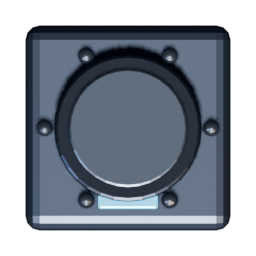
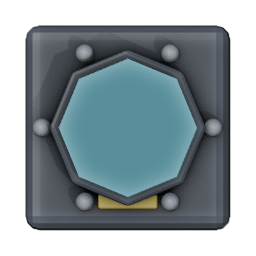
Prototype v0.3.1: reworked sprites (Workbench) + combat feel
- Sprites re-rendered in Workbench: flat colors + cavity outlines,
  distinct color identity per part (olive/graphite/slate hulls,
  orange nozzles, yellow ammo drums, red hostile accents)
- Combat rework: only flagship selected at start; attackers orbit
  targets at gun range instead of ramming; arrival braking so
  ships stop at orders instead of drifting forever
- Salvage loop: destroyed blocks drop collectible debris that
  permanently raises the next build budget
- Reinforcement wing spawns when the station shield falls
- Tighter spawn distances, HUD salvage counter, event messages

Generated with [Devin](https://devin.ai)

diff --git a/void-salvage/prototype/game.js b/void-salvage/prototype/game.js
@@ -52,6 +52,8 @@ let allies = [], foes, station, bullets, particles, stars, planet;
 const selection = new Set(); // ally ships under command
 let rosterSel = new Set();   // chosen escort indices
 let paused = false, autopilot = false, won = false, dead = false, time = 0;
+let salvage = 0, debris = [], msg = null, reinforced = false;
+const budget = () => BUDGET + salvage;
 const autoBtn  = { x: 0, y: 0, w: 150, h: 38 };
 const pauseBtn = { x: 0, y: 0, w: 120, h: 38 };
 const allBtn   = { x: 0, y: 0, w: 140, h: 38 };
@@ -132,7 +134,7 @@ function editorClick(mx, my) {
     return;
   }
   if (!hasNeighbor(r, c)) return;
-  if (gridCost() + TYPES[selected].cost > BUDGET) return;
+  if (gridCost() + TYPES[selected].cost > budget()) return;
   grid[r][c] = selected;
 }
 
@@ -178,7 +180,7 @@ function makeShip(g, x, y, team, color, o = {}) {
     x, y, vx: 0, vy: 0, angle: o.angle ?? 0, va: 0,
     blocks: blocksFromGrid(g), team, color,
     thrust: 0, turn: 0, radius: 0, alive: true,
-    order: null, thrusting: false
+    order: null, thrusting: false, orb: Math.random() < 0.5 ? 1 : -1
   };
   recount(s);
   s.radius = Math.max(...s.blocks.map(b => Math.hypot(b.dx, b.dy))) + CS * 0.7;
@@ -194,26 +196,27 @@ function bw(s, b) {
 function launch() {
   mode = 'flight';
   autopilot = false; paused = false; won = false; dead = false; time = 0;
-  const flag = makeShip(grid, -900, 0, 'ally', '#7fd4ff');
+  debris = []; msg = null; reinforced = false;
+  const flag = makeShip(grid, -600, 0, 'ally', '#7fd4ff');
   allies = [flag];
   let i = 0;
   for (const idx of rosterSel) {
     const r = ROSTER[idx];
-    const w = makeShip(gridFromList(r.g), -1000 - i * 90, 140 + i * 110, 'ally', r.color);
+    const w = makeShip(gridFromList(r.g), -720 - i * 90, 130 + i * 110, 'ally', r.color);
     w.order = { kind: 'follow', t: flag, slot: i + 1 };
     allies.push(w); i++;
   }
-  selectAll();
+  selection.clear(); selection.add(flag); // only the flagship is under direct command at start
   foes = [
-    makeShip(gridFromList([[4,3,'engine'],[4,4,'hull'],[4,5,'turret']]), 1300, -400, 'foe', '#ff8a7a'),
-    makeShip(gridFromList([[4,3,'engine'],[4,4,'hull'],[4,5,'turret'],[5,4,'hull']]), 1500, 400, 'foe', '#ff8a7a'),
-    makeShip(gridFromList([[4,2,'engine'],[4,3,'hull'],[4,4,'hull'],[4,5,'turret'],[3,4,'hull'],[5,4,'hull'],[3,5,'turret'],[5,5,'turret']]), 1900, -260, 'foe', '#ffb36e')
+    makeShip(gridFromList([[4,3,'engine'],[4,4,'hull'],[4,5,'turret']]), 750, -380, 'foe', '#ff8a7a'),
+    makeShip(gridFromList([[4,3,'engine'],[4,4,'hull'],[4,5,'turret'],[5,4,'hull']]), 950, 380, 'foe', '#ff8a7a'),
+    makeShip(gridFromList([[4,2,'engine'],[4,3,'hull'],[4,4,'hull'],[4,5,'turret'],[3,4,'hull'],[5,4,'hull'],[3,5,'turret'],[5,5,'turret']]), 1250, -240, 'foe', '#ffb36e')
   ];
   station = {
-    x: 2400, y: 0, r: 80, coreHp: 350, coreMax: 350,
+    x: 1600, y: 0, r: 80, coreHp: 350, coreMax: 350,
     turrets: [0, 1, 2, 3, 4, 5].map(j => ({ a: j / 6 * TAU, hp: 55, maxHp: 55, cd: rand(0, 1.4), alive: true }))
   };
-  planet = { x: 3100, y: 800, r: 420 };
+  planet = { x: 2400, y: 800, r: 420 };
   bullets = []; particles = [];
   stars = [];
   for (let j = 0; j < 500; j++)
@@ -280,13 +283,23 @@ function steerTo(s, pt, dt, hold) {
   const dA = angDiff(s.angle, angleTo(s, pt));
   s.va += (Math.sign(dA) * s.turn - s.va * 3) * dt;
   const d = dist(s, pt);
-  if (Math.abs(dA) < 1.0 && d > hold) {
+  const dirx = (pt.x - s.x) / (d || 1), diry = (pt.y - s.y) / (d || 1);
+  const speedToward = s.vx * dirx + s.vy * diry;
+  const cap = Math.max(25, (d - hold) * 1.3); // brake before overshooting
+  if (Math.abs(dA) < 0.9 && d > hold && speedToward < cap) {
     s.vx += Math.cos(s.angle) * s.thrust * dt;
     s.vy += Math.sin(s.angle) * s.thrust * dt;
     return true;
   }
-  if (d < hold + 60) { s.vx *= (1 - 1.1 * dt); s.vy *= (1 - 1.1 * dt); }
+  if (d < hold + 40 || speedToward > cap + 30) { s.vx *= (1 - 1.4 * dt); s.vy *= (1 - 1.4 * dt); }
   return false;
+}
+
+// orbit attack: circle the target at gun range instead of ramming it
+function attackPoint(s, t) {
+  const p = targetPoint(t);
+  const a = angleTo(p, s) + s.orb * 0.4;
+  return { x: p.x + Math.cos(a) * 340, y: p.y + Math.sin(a) * 340 };
 }
 
 function followPoint(s) {
@@ -334,7 +347,7 @@ function shipBrain(s, dt) {
   const o = s.order;
   let thrusting = false;
   if (o && o.kind === 'attack' && validTarget(o.t)) {
-    thrusting = steerTo(s, targetPoint(o.t), dt, 380) || thrusting;
+    thrusting = steerTo(s, attackPoint(s, o.t), dt, 60) || thrusting;
   } else if (o && o.kind === 'move') {
     thrusting = steerTo(s, o, dt, 30);
     if (dist(s, o) < 40) s.order = null;
@@ -344,9 +357,9 @@ function shipBrain(s, dt) {
   s.thrusting = thrusting;
 }
 
-function allyBrain(s, dt) { // autopilot / unselected fallback? — used when autopilot on
+function allyBrain(s, dt) { // autopilot
   const t = nearestFoe(s);
-  if (t) steerTo(s, t === station ? station : t, dt, 340);
+  if (t) s.thrusting = steerTo(s, attackPoint(s, t === station ? station : t), dt, 60);
 }
 
 function explode(x, y, color, n = 24) {
@@ -369,6 +382,8 @@ function hitShip(s, b) {
     const p = bw(s, blk);
     s.blocks = s.blocks.filter(x => x !== blk);
     explode(p.x, p.y, s.color, 14);
+    // destroyed parts drop as salvageable debris
+    debris.push({ x: p.x, y: p.y, vx: rand(-40, 40), vy: rand(-40, 40), a: rand(0, TAU), va: rand(-2, 2), v: TYPES[blk.type].cost, t: blk.type });
     recount(s);
     if (!s.blocks.length) { s.alive = false; selection.delete(s); explode(s.x, s.y, s.color, 50); }
   }
@@ -379,7 +394,7 @@ function update(dt) {
 
   for (const s of allies) {
     if (!s.alive) continue;
-    if (autopilot) { allyBrain(s, dt); s.thrusting = true; }
+    if (autopilot) allyBrain(s, dt);
     else shipBrain(s, dt);
     s.angle += s.va * dt;
     s.x += s.vx * dt; s.y += s.vy * dt;
@@ -394,10 +409,18 @@ function update(dt) {
   for (const f of foes) {
     if (!f.alive) continue;
     const t = nearestAlly(f);
-    if (t) f.thrusting = steerTo(f, t, dt, 300);
+    if (t) f.thrusting = steerTo(f, attackPoint(f, t), dt, 60);
     f.angle += f.va * dt;
     f.x += f.vx * dt; f.y += f.vy * dt;
     autoFire(f, dt, null);
+  }
+
+  // reinforcements when the shield ring falls
+  if (!reinforced && station.turrets.every(t => !t.alive)) {
+    reinforced = true;
+    msg = { text: 'SHIELD DOWN — REINFORCEMENTS INBOUND', t: 4 };
+    foes.push(makeShip(gridFromList([[4,3,'engine'],[4,4,'hull'],[4,5,'turret'],[5,4,'hull']]), station.x + 200, -300, 'foe', '#ff8a7a'));
+    foes.push(makeShip(gridFromList([[4,3,'engine'],[4,4,'hull'],[4,5,'turret'],[3,4,'hull']]), station.x + 200, 300, 'foe', '#ff8a7a'));
   }
 
   for (const t of station.turrets) {
@@ -439,6 +462,22 @@ function update(dt) {
 
   for (const p of particles) { p.x += p.vx * dt; p.y += p.vy * dt; p.ttl -= dt; }
   particles = particles.filter(p => p.ttl > 0);
+
+  // salvage pickups
+  for (const d of debris) {
+    d.x += d.vx * dt; d.y += d.vy * dt; d.a += d.va * dt;
+    d.vx *= (1 - 0.4 * dt); d.vy *= (1 - 0.4 * dt);
+    for (const s of allies) {
+      if (s.alive && dist(s, d) < s.radius + 30) {
+        salvage += d.v; d.got = true;
+        explode(d.x, d.y, '#ffcf6e', 6);
+        break;
+      }
+    }
+  }
+  debris = debris.filter(d => !d.got);
+
+  if (msg) { msg.t -= dt; if (msg.t <= 0) msg = null; }
 
   if (!allies.some(s => s.alive)) dead = true;
   else if (!allies[0].alive) dead = true; // flagship lost = mission failed
@@ -521,7 +560,7 @@ function drawEditor() {
   const mass = flat.length, eng = n('engine');
   const sy = gs.y + GRID * gs.s + 30;
   ctx.fillStyle = '#8aa0c8'; ctx.font = '14px monospace';
-  ctx.fillText(`mass ${mass}   thrust ${eng ? Math.round(eng * 220 / (mass * 0.5)) : 0}   guns ${n('turret')}   scrap ${gridCost()}/${BUDGET}`, gs.x, sy);
+  ctx.fillText(`mass ${mass}   thrust ${eng ? Math.round(eng * 220 / (mass * 0.5)) : 0}   guns ${n('turret')}   scrap ${gridCost()}/${budget()}${salvage ? '  (+' + salvage + ' salvaged)' : ''}`, gs.x, sy);
 
   const chk = canLaunch();
   launchBtn.x = px; launchBtn.y = sy - 34;
@@ -644,6 +683,13 @@ function draw() {
     ctx.fillStyle = '#ff8a7a'; ctx.fillRect(p.x - 10, p.y - 17, 20 * t.hp / t.maxHp, 3);
   }
 
+  for (const d of debris) {
+    ctx.save(); ctx.translate(d.x, d.y); ctx.rotate(d.a);
+    ctx.fillStyle = '#b06a2a'; ctx.fillRect(-5, -5, 10, 10);
+    ctx.strokeStyle = '#ffcf6e'; ctx.lineWidth = 1.5; ctx.strokeRect(-5, -5, 10, 10);
+    ctx.restore();
+  }
+
   for (const s of [...allies, ...foes]) if (s.alive) drawShip(s);
   for (const s of allies) if (s.alive && !autopilot) drawOrderMarker(s);
 
@@ -681,6 +727,8 @@ function draw() {
   }
   ctx.fillStyle = '#9dff8a';
   ctx.fillText(`SELECTED ${selection.size}/${allies.filter(s => s.alive).length}`, 16, hy + 4);
+  ctx.fillStyle = '#ffcf6e';
+  ctx.fillText(`SALVAGE +${salvage} (next build: ${budget()} scrap)`, 16, hy + 24);
 
   const tLeft = station.turrets.filter(t => t.alive).length;
   ctx.fillStyle = '#ff8a7a'; ctx.textAlign = 'right';
@@ -710,6 +758,11 @@ function draw() {
   ctx.fillStyle = '#5a6a8a'; ctx.font = '12px monospace';
   ctx.fillText('click own ship: select (shift = +)   click space: move   click enemy: attack   A: all   Space: pause   P: AI   R: shipyard', 16, H - 16);
 
+  if (msg) {
+    ctx.fillStyle = '#ff8a7a'; ctx.font = 'bold 20px monospace'; ctx.textAlign = 'center';
+    ctx.fillText(msg.text, W / 2, 60);
+    ctx.textAlign = 'left';
+  }
   if (paused) {
     ctx.fillStyle = 'rgba(5,7,13,0.55)'; ctx.fillRect(0, 0, W, H);
     ctx.fillStyle = '#7fd4ff'; ctx.font = 'bold 40px monospace'; ctx.textAlign = 'center';

diff --git a/void-salvage/prototype/README.md b/void-salvage/prototype/README.md
@@ -10,7 +10,10 @@ Open `index.html` in any browser (or serve the folder — sprite loading needs n
 
 - **Block-grid shipyard:** your ship is a grid of square blocks — HULL / ENGINE / GUN. You start with a junk rustbucket: a couple of hull plates, one engine, one sad little gun. Scrap budget limits the build; blocks must touch.
 - **Fleet selection:** pick up to **2 wingmen** from the roster (SCOUT / GUNSHIP / BULWARK) before launch — transports are limited, choose who comes.
-- **Squad orders:** click your own ship to select it (shift = add to selection), then click empty space = move order, click an enemy = attack order. Orders go to every selected ship; `A` selects the whole fleet. Unordered wingmen form up on the flagship.
+- **Squad orders:** only the flagship starts selected — click your own ship to select it (shift = add), then click empty space = move order, click an enemy = attack order. Orders go to every selected ship; `A` selects the whole fleet. Unordered wingmen form up on the flagship.
+- **Orbital combat:** attackers circle their target at gun range instead of ramming it; enemies do the same. Ships brake on arrival instead of drifting past orders forever.
+- **Salvage drops:** destroyed blocks fall off as collectible debris — fly over them to bank scrap; salvaged scrap permanently raises your next build budget.
+- **Reinforcements:** dropping the station's turret shield spawns a response wing.
 - **Pause** (Space or button) — single player only. Clan wars will have no pause: the war itself just runs slowly.
 - **Blender-rendered sprites** (`assets/*.png`): parts are top-down Eevee renders generated in Blender via the local MCP bridge (`blender-mcp` addon on localhost:9876). Turrets are two-layer: static base + barrel that rotates to track its target.
 - **Clean geometric visuals** (Creeper World direction, NOT pixel art): dark field, faint world grid, thin outlines.
